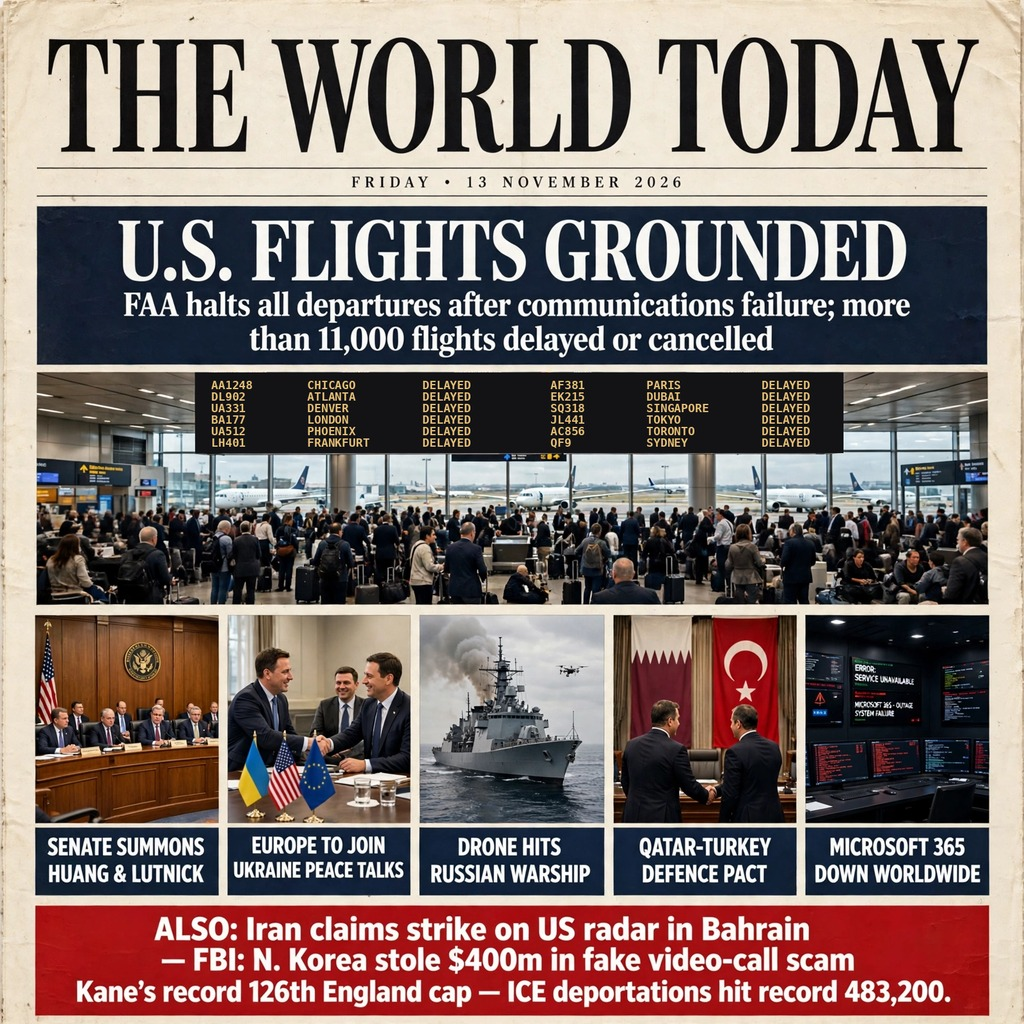
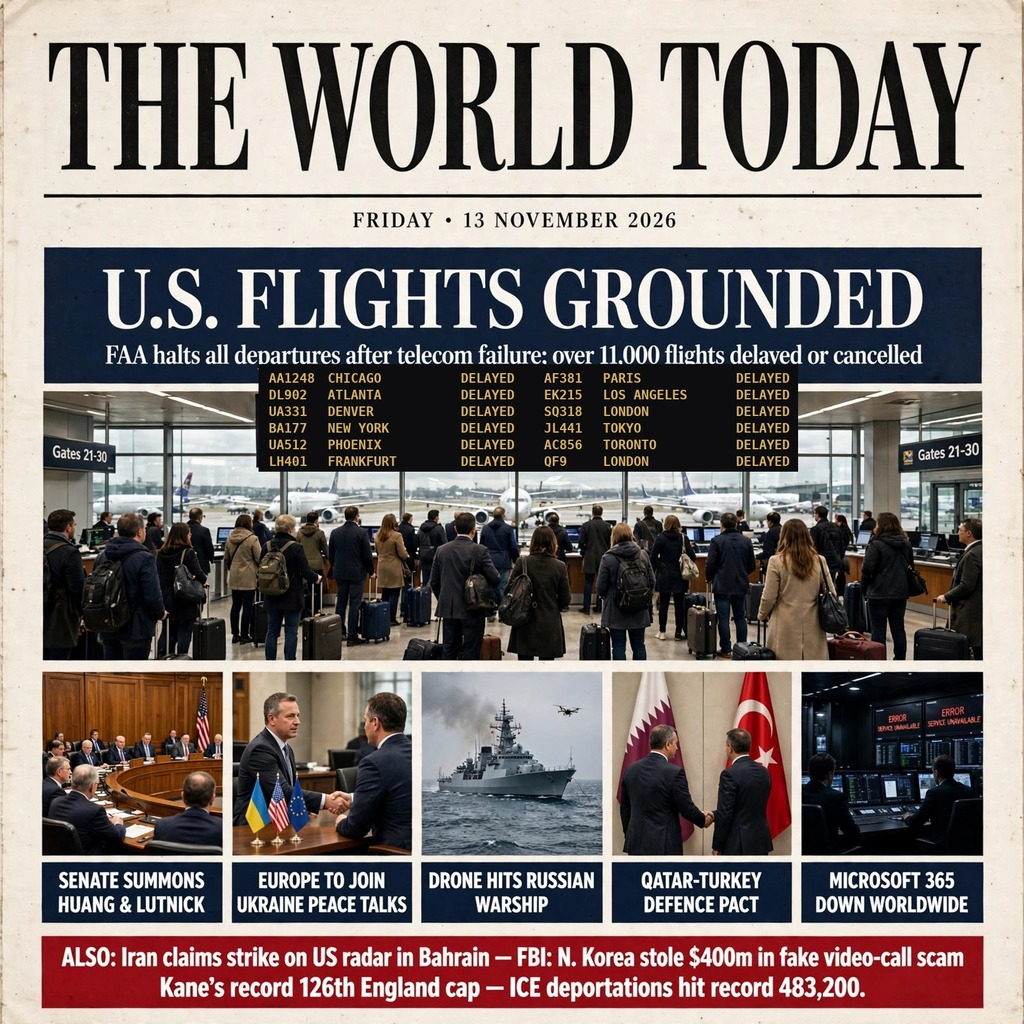
news-image-01: v4 front page — one-line hero deck, clean route-correct board, larger footer

diff --git a/main.py b/main.py
@@ -9,7 +9,9 @@ of Finland, the Qatar-Turkey defence pact and the worldwide Microsoft
 365 outage, plus a footer strip with Iran's claimed strike on a US
 radar site in Bahrain, the FBI's $400m North Korea crypto-scam
 warning, Kane's England caps record and the record US deportation
-figure.
+figure. The departures board in the hero photo was repainted with
+twelve distinct delayed flights (destinations matched to the flights'
+real routes); the hero deck fits on one line and the footer on two.
 """
 
 import os

diff --git a/README.md b/README.md
@@ -35,13 +35,14 @@ A newspaper-front-page image summing up the world's news of Friday
 
 The front page was generated as one image, then one detail was
 corrected for faithfulness: the generated departures board repeated
-the same six flight rows twice, so the board was repainted with
-twelve distinct delayed flights in a matching gold mono face.
-Nothing else was altered. The generation already carried the
-corrected hero figure (more than 11,000 flights delayed or
-cancelled, per FlightAware via Reuters), a populated Senate hearing
-room, and a sharp-cornered hero banner — the three points where the
-previous version was weakest.
+the same few garbled rows, so the board was repainted with twelve
+distinct delayed flights in a matching gold mono face, with
+destinations corrected to the flights' real routes (BA177 to New
+York, EK215 to Los Angeles, SQ318 and QF9 to London). Nothing else
+was altered. This version also fixes the three points where the
+previous version was weakest: the hero sub-headline now fits on one
+line, nobody in the Europe panel looks at the camera, and the footer
+is two lines in larger type.
 
 ## How it runs
 
@@ -53,4 +54,4 @@ mkdir -p out && MAKEFUN_OUTPUT_DIR=out python3 main.py
 ```
 
 The output is a 1024x1024 JPEG (named `entry.png`, as the rules allow),
-400,163 bytes (under the 1 MiB limit), and byte-identical on every run.
+372,208 bytes (under the 1 MiB limit), and byte-identical on every run.
